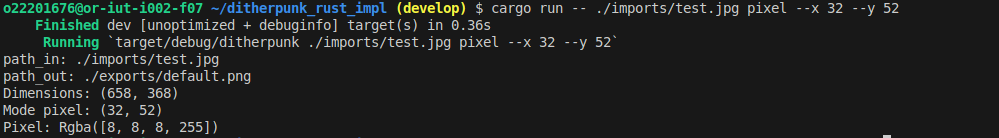
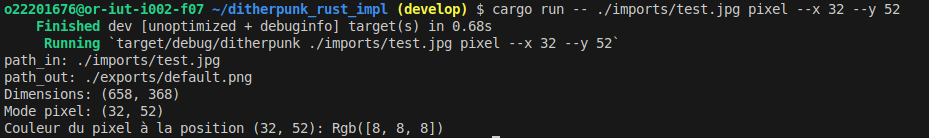
Enhance pixel retrieval functionality and update README.md with new usage details

diff --git a/src/main.rs b/src/main.rs
@@ -1,6 +1,6 @@
 use argh::FromArgs;
 use image::io::Reader as ImageReader;
-use image::{DynamicImage, GenericImageView, ImageError};
+use image::{DynamicImage, GenericImageView, ImageError, Pixel};
 
 #[derive(Debug, Clone, PartialEq, FromArgs)]
 /// Convertit une image en monochrome ou vers une palette réduite de couleurs.
@@ -60,6 +60,16 @@ struct OptsPixel {
 // const MAGENTA: image::Rgb<u8> = image::Rgb([255, 0, 255]);
 // const CYAN: image::Rgb<u8> = image::Rgb([0, 255, 255]);
 
+fn get_pixel(img: &DynamicImage, x: u32, y: u32) -> image::Rgb<u8> {
+    let pixel = img.get_pixel(x, y);
+    let channels = pixel.channels();
+    image::Rgb([channels[0], channels[1], channels[2]])
+}
+
+fn white_pixel() -> image::Rgb<u8> {
+    image::Rgb([255, 255, 255])
+}
+
 fn main() -> Result<(), ImageError> {
     let args: DitherArgs = argh::from_env();
     let path_in = args.input;
@@ -82,7 +92,11 @@ fn main() -> Result<(), ImageError> {
         }
         Mode::Pixel(opts) => {
             println!("Mode pixel: ({}, {})", opts.x, opts.y);
-            println!("Pixel: {:?}", img.get_pixel(opts.x as u32, opts.y as u32));
+            let pixel_color = get_pixel(&img, opts.x as u32, opts.y as u32);
+            println!(
+                "Couleur du pixel à la position ({}, {}): {:?}",
+                opts.x, opts.y, pixel_color
+            );
         }
     }
 

diff --git a/README.md b/README.md
@@ -114,18 +114,46 @@ struct OptsPixel {
 }
 ```
 
+Fonction de récupération de la couleur du pixel :
+
 ```rust
-match mode {
-    Mode::Seuil(_) => {
-        println!("Mode seuil");
+fn get_pixel(img: &DynamicImage, x: u32, y: u32) -> image::Rgb<u8> {
+    let pixel = img.get_pixel(x, y);
+    let channels = pixel.channels();
+    image::Rgb([channels[0], channels[1], channels[2]])
+}
+
+fn main() -> Result<(), ImageError> {
+    let args: DitherArgs = argh::from_env();
+    let path_in = args.input;
+    let path_out = args.output.unwrap_or("./exports/default.png".to_string());
+    let mode = args.mode;
+
+    println!("path_in: {}", path_in);
+    println!("path_out: {}", path_out);
+
+    // Lire l'image
+    let img: DynamicImage = ImageReader::open(path_in)?.decode()?;
+    println!("Dimensions: {:?}", img.dimensions());
+
+    match mode {
+        Mode::Seuil(_) => {
+            println!("Mode seuil");
+        }
+        Mode::Palette(opts) => {
+            println!("Mode palette: {:?}", opts.n_couleurs);
+        }
+        Mode::Pixel(opts) => {
+            println!("Mode pixel: ({}, {})", opts.x, opts.y);
+            let pixel_color = get_pixel(&img, opts.x as u32, opts.y as u32);
+            println!(
+                "Couleur du pixel à la position ({}, {}): {:?}",
+                opts.x, opts.y, pixel_color
+            );
+        }
     }
-    Mode::Palette(opts) => {
-        println!("Mode palette: {:?}", opts.n_couleurs);
-    }
-    Mode::Pixel(opts) => {
-        println!("Mode pixel: ({}, {})", opts.x, opts.y);
-        println!("Pixel: {:?}", img.get_pixel(opts.x as u32, opts.y as u32));
-    }
+
+    Ok(())
 }
 ```
 
